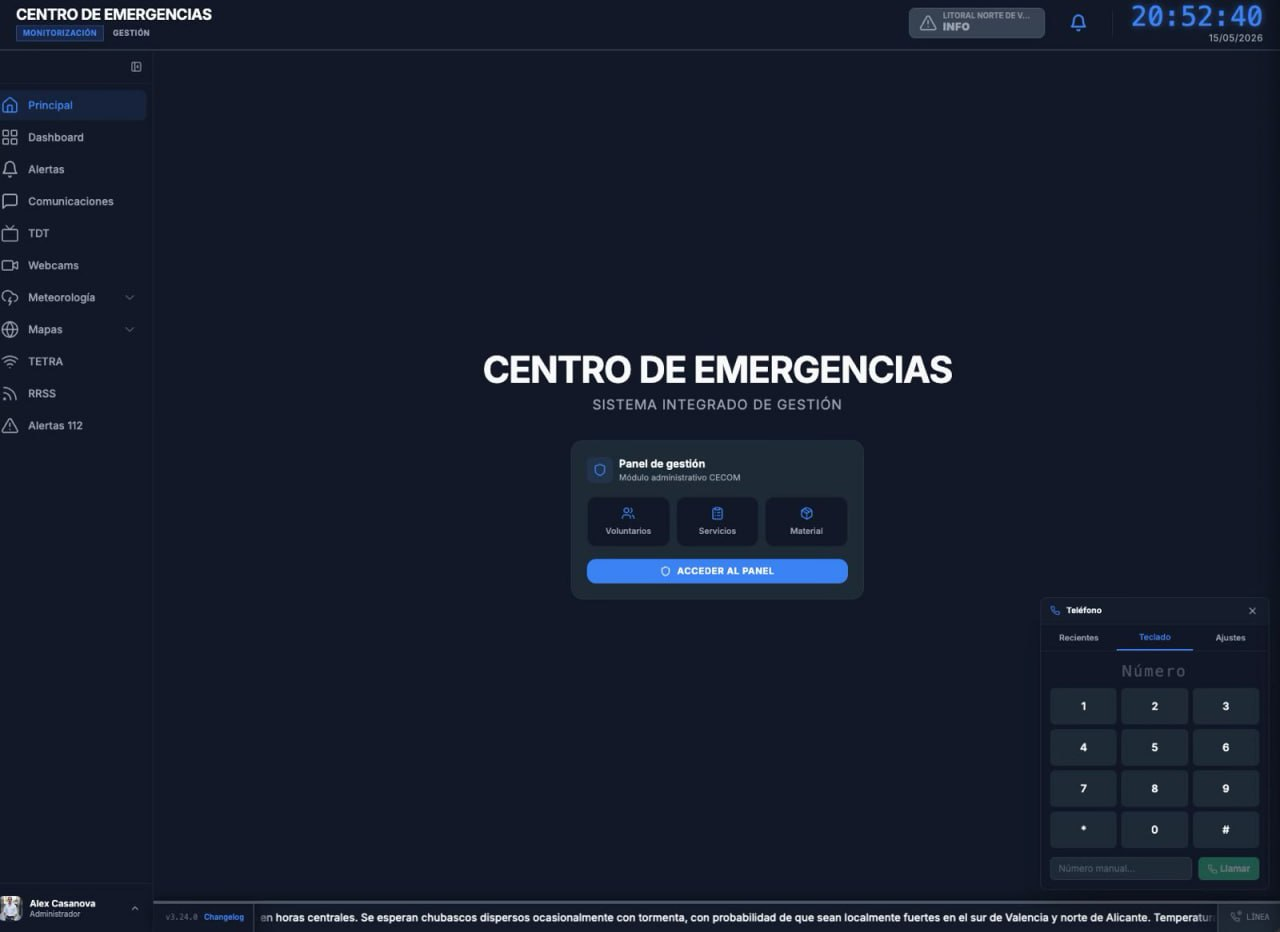
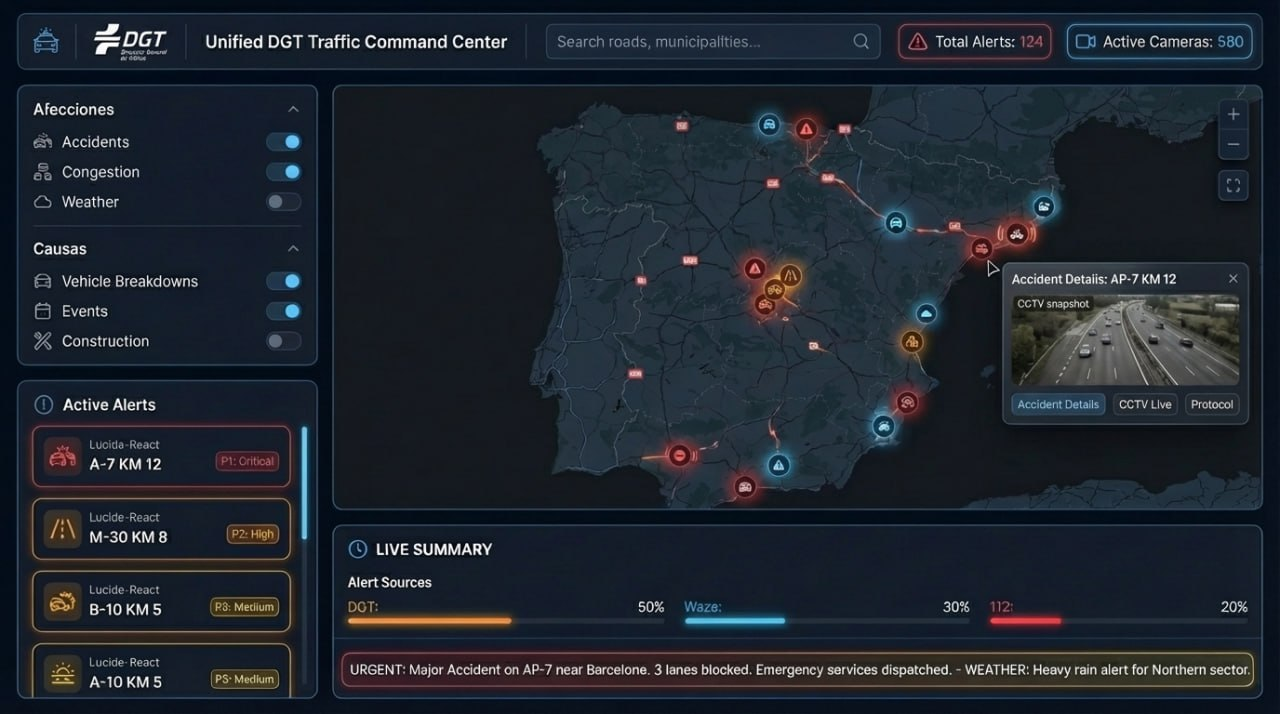
Unifica el color del texto en listas y añade h4 al sistema tipográfico
Corrige la falta de color en <li> dentro del contenido de posts/proyectos,
que quedaba más claro que los párrafos. Actualiza también el cover del
proyecto CECOM.

diff --git a/assets/scss/main.scss b/assets/scss/main.scss
@@ -81,7 +81,7 @@ a { color: var(--accent); }
 }
 .skip-link:focus { top: var(--space-2); }
 
-h1, h2, h3 { font-weight: 600; line-height: 1.2; letter-spacing: -0.01em; }
+h1, h2, h3, h4 { font-weight: 600; line-height: 1.2; letter-spacing: -0.01em; }
 .specialization {
   color: var(--accent);
   font-size: 1.05rem;
@@ -767,7 +767,8 @@ h1, h2, h3 { font-weight: 600; line-height: 1.2; letter-spacing: -0.01em; }
 
 .post .content { margin-top: var(--space-4); }
 .post .content h2 { margin-top: var(--space-4); }
-.post .content p { color: var(--text-secondary); }
+.post .content p,
+.post .content li { color: var(--text-secondary); }
 
 .post .content .content-figure {
   margin: var(--space-4) 0;
